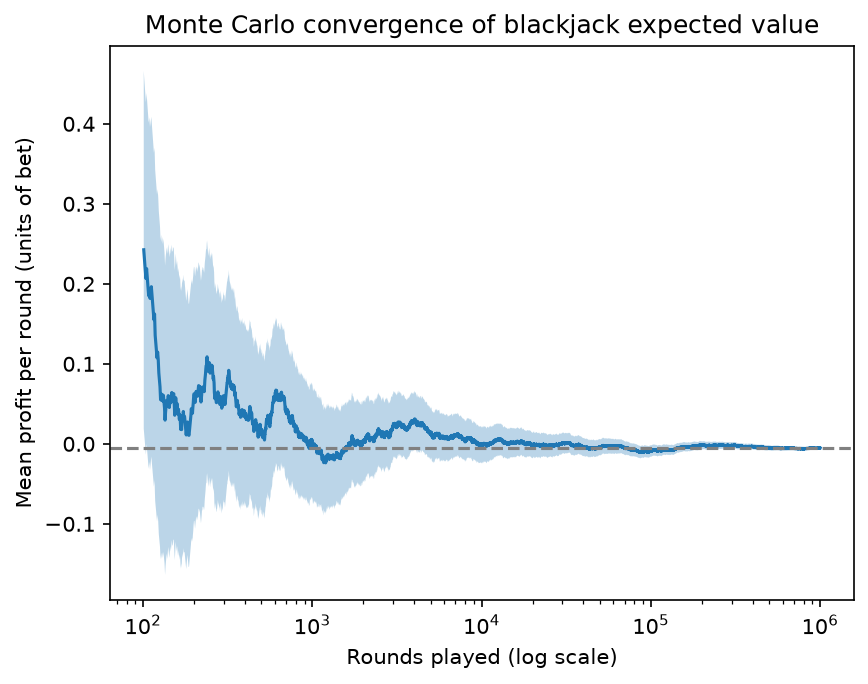
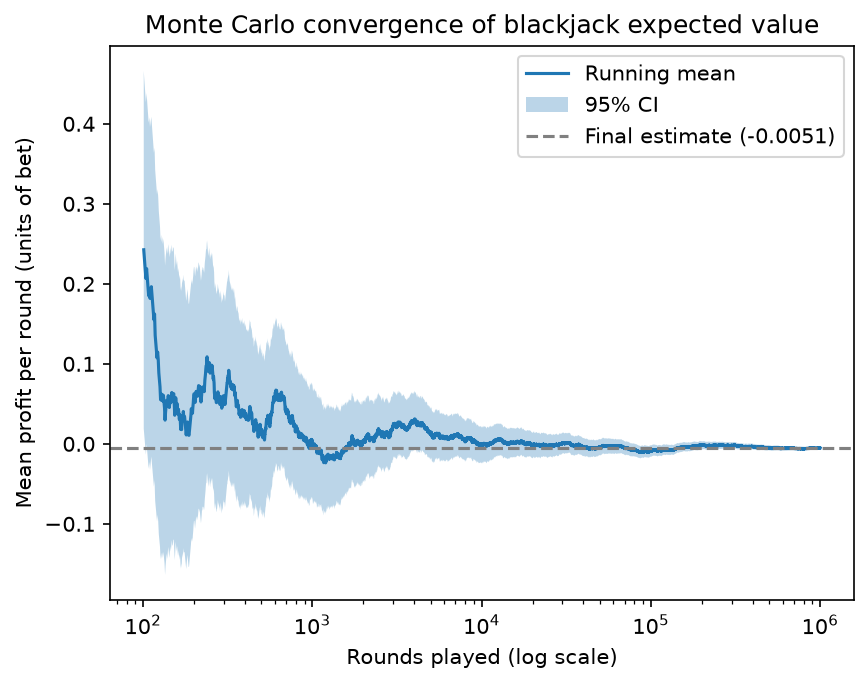
Add Hi-Lo counting and edge-by-true-count analysis
counting.py: Hi-Lo card values and true count (running count from the remaining shoe, divided by exact decks remaining).

simulate.py: now also records the true count at the start of each round.

analysis.py: groups rounds by floored true count, computes mean profit, standard error and 95% CI per bucket, and fits edge(TC) by weighted least squares: edge = -0.52% + 0.485% per true count, break-even near TC +1.

plots.py: edge-by-count chart; convergence plot moved into plot_convergence (legend fix).

Changed region(s): [[0.591, 0.0921, 0.9643, 0.2456]]

diff --git a/blackjack/analysis.py b/blackjack/analysis.py
@@ -1,0 +1,44 @@
+import random
+
+import pandas as pd
+import numpy as np
+
+from blackjack.simulate import simulate
+from blackjack.plots import plot_edge_by_count
+
+def edge_by_count(true_counts, profits, min_rounds=10_000):
+    df = pd.DataFrame({"true_count" : true_counts, "profit" : profits}) # build a data frame with 2 columns: tc and profit
+    df["tc_bucket"] = np.floor(df["true_count"]).astype(int) # this rounds down tcs 
+    table = df.groupby("tc_bucket").agg(       # group by the same rounded-down tc                      
+        avg_tc=("true_count", "mean"),         # this gives the avarage tc of the group
+        mean=("profit", "mean"),               # this gives the avarage profit of the group
+        std=("profit", "std"),                 # std of the profits within each group
+        count=("profit", "count"),             # no of hands per group
+    )
+    # each group becomes one row in the table
+    table["se"] = table["std"] / np.sqrt(table["count"])  # standard error of each group
+    table["ci_low"] = table["mean"] - 1.96 * table["se"]  # CI_low of each group
+    table["ci_high"] = table["mean"] + 1.96 * table["se"] # CI_high of each group
+    table = table[table["count"] >= min_rounds]           # this filters out groups with too few hands, because these are very voltatile and unrepresentative
+    return table
+
+def fit_edge(table):
+    slope, intercept = np.polyfit(table["avg_tc"], table["mean"], 1, w = 1 / table["se"])  # this takes all points(x,y) where x is the avg_tc of a group and y is
+                                                                                           # is the mean return of the group, and gives us the slope and y-intercept 
+                                                                                           # of the line that best represents the points
+                                                                                           # least squares method
+                                                                                           # w=1 / table["se"] is a weighted fit. Buckets with small SE (that is, with many rounds) count more than noisy ones.
+    ## print (f"edge(TC) = {intercept:.5f} + {slope:.5f} * TC") # this is edge formula in terms of TC
+    return slope, intercept
+
+def main():
+    random.seed(42)  # use same seed
+    true_counts, profits = simulate(2_000_000)  # get profits and counts
+    table = edge_by_count(true_counts, profits) # get table
+    slope, intercept = fit_edge(table) # fit the line edge(TC) = intercept + slope · TC.
+    print(table)
+    print(f"edge(TC) = {intercept:.5f} + {slope:.5f} * TC")
+    plot_edge_by_count(table, slope, intercept)
+
+if __name__ == "__main__":
+    main()

diff --git a/blackjack/plots.py b/blackjack/plots.py
@@ -5,10 +5,11 @@ import numpy as np
 
 from blackjack.simulate import simulate
 
-def main():
-    random.seed(42)   # same seed so that we are working with the same random numbers
+
+def plot_convergence(profits, path="results/convergence.png"):
+    # Plot the running mean of profits with its 95% CI on a log x-axis.
+    profits = np.array(profits)
     start = 100       # we don't want to plot the first 100 hands as the running means are more volatile
-    profits = np.array(simulate(1_000_000)) 
     k = np.arange(1, len(profits) + 1)        # 1, 2, 3, ..., n (x axis)
     running_mean = np.cumsum(profits) / k     # mean after each round (y axis) 
     fig, ax = plt.subplots()                  # create figure
@@ -21,9 +22,34 @@ def main():
     ax.set_xlabel("Rounds played (log scale)")
     ax.set_ylabel("Mean profit per round (units of bet)")
     ax.set_title("Monte Carlo convergence of blackjack expected value")
-    fig.savefig("results/convergence.png", dpi=150, bbox_inches="tight")
     ax.legend()
+    fig.savefig(path, dpi=150, bbox_inches="tight")
     plt.show()
+
+
+def plot_edge_by_count(table, slope, intercept, path="results/edge_by_count.png"):
+    # Plot mean profit per true-count bucket with 95% CIs and the fitted line.
+    fig, ax = plt.subplots()  # create fig and axes
+    ax.errorbar(table["avg_tc"], table["mean"],         # one dot per bucket, with its 95% CI as a vertical bar
+                yerr=1.96 * table["se"],
+                fmt="o", capsize=3,
+                label="Simulated edge (95% CI)")
+    x = np.linspace(table["avg_tc"].min(), table["avg_tc"].max(), 100) # create 100 evenly spaced points between min relevant count and max relevant count
+    ax.plot(x, intercept + slope * x, label=f"Fit: {intercept:.4f} + {slope:.4f}·TC")   # this plots edge in terms of x which is avarage tc
+    ax.axhline(0, color="gray", linewidth=0.8) # line y = 0
+    ax.set_xlabel("True count (Hi-Lo)")
+    ax.set_ylabel("Mean profit per round (units of bet)")      # Labels
+    ax.set_title("Player edge by true count")
+    ax.legend()
+    fig.savefig(path, dpi=150, bbox_inches="tight")   # save
+    plt.show() # show
+
+
+def main():
+    random.seed(42)   # same seed so that we are working with the same random numbers
+    _, profits = simulate(1_000_000)
+    plot_convergence(profits)
+
 
 if __name__ == "__main__":
     main()

diff --git a/blackjack/simulate.py b/blackjack/simulate.py
@@ -1,28 +1,32 @@
-import numpy as np
 import random
+
+import numpy as np
 
 from blackjack.cards import build_shoe
 from blackjack.game import play_round
+from blackjack.counting import true_count
 
 def simulate(n_rounds, n_decks = 6, penetration = 0.75):
-    """Play n_rounds of blackjack and return a list of each round's profit."""
+    """Play n_rounds of blackjack and return a list of each round's profit and true count."""
     # 6 decks contain 6 * 52 = 312 cards
     # so penetration = 75% is reached when we reach 312 * 0.75 = 234 cards, that means when there are 312 - 234 = 78 cards left
     # so shoe gets reshuffled when len(shoe) < n_decks * 52 * (1 - penetration)
     shoe = build_shoe(n_decks)
     profit_list = []
+    true_counts = []
     reshuffle_at = n_decks * 52 * (1 - penetration)
     for _ in range(n_rounds):
         if len(shoe) < reshuffle_at:
             shoe = build_shoe(n_decks)
+        true_counts.append(true_count(shoe))
         profit_list.append(play_round(shoe))
-    return profit_list
+    return true_counts, profit_list
 
 def summarize(profits):
     """Return mean, std, standard error and 95% CI of the profits."""
     profits = np.array(profits) 
     mean = profits.mean()  # mean
-    std = profits.std(ddof=1) # standard deviaton 
+    std = profits.std(ddof=1) # standard deviation 
     se = std / np.sqrt(len(profits)) # standard error
     ci_low = mean - 1.96 * se    # lower end of the 95% confidence interval
     ci_high = mean + 1.96 * se   # upper end of the 95% confidence interval

diff --git a/blackjack/counting.py b/blackjack/counting.py
@@ -1,0 +1,14 @@
+def hilo_value(card):                    # this tells us whether the card is +1, 0, or -1
+    if 2 <= card <= 6:
+        return 1
+    elif 7 <= card <= 9:
+        return 0
+    else:
+        return -1 
+
+def true_count(shoe):
+    count = 0
+    for card in shoe:
+        count += hilo_value(card)        # count of cards left in shoe. running count + this count = 0 so running count = - this count
+    return -count * 52 / len(shoe)       # the true count is = running count / no of decks left
+
